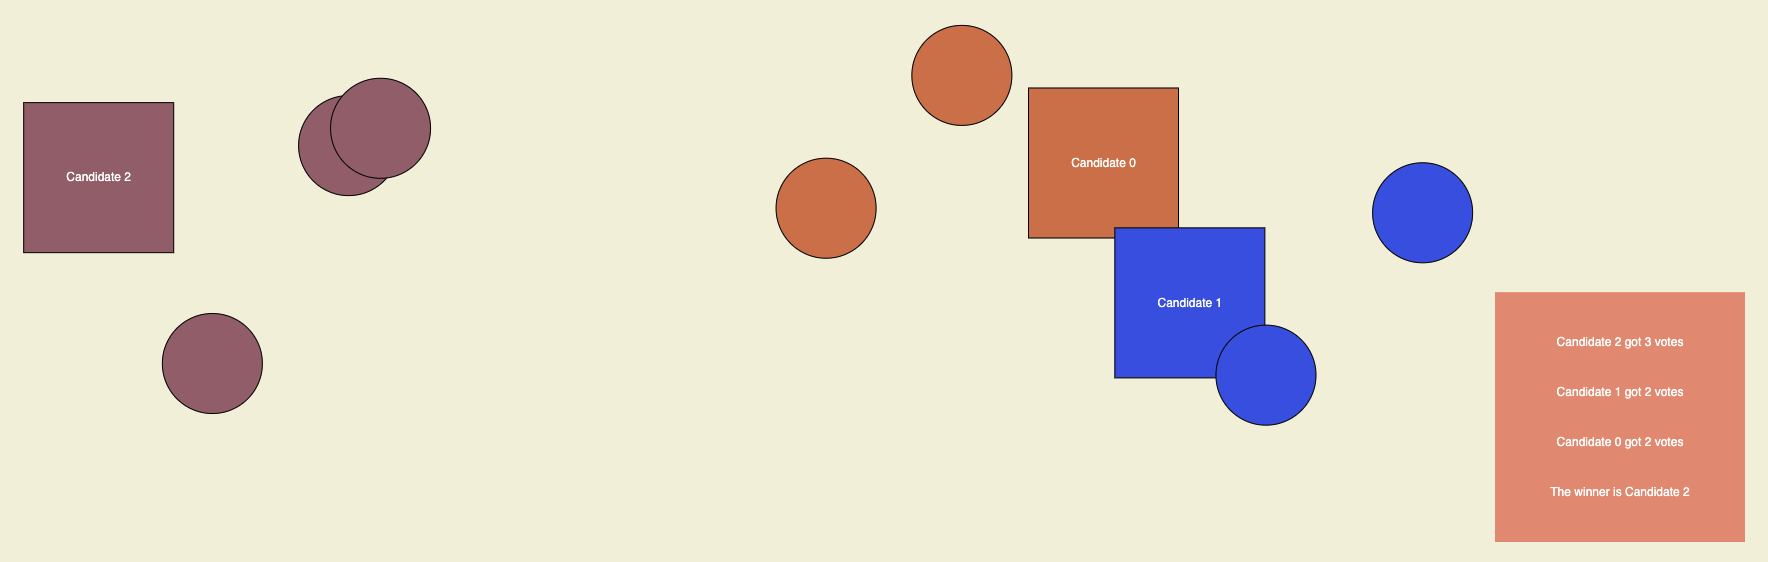
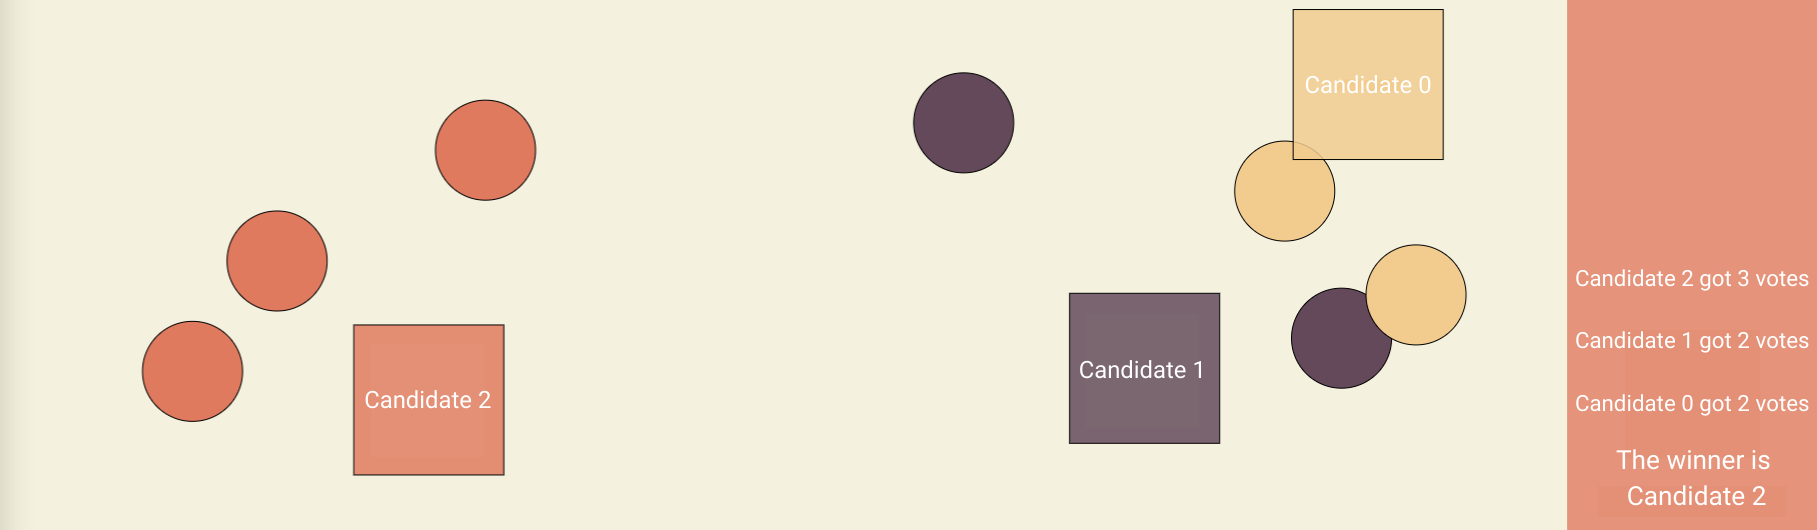
Finalize fptp

diff --git a/analysis.html b/analysis.html
@@ -16,24 +16,53 @@
     <h1>What are the voting systems we are studying?</h1>
     <main>
         <div id="content">
-            <div id="intro-c">
-                <p class="info-p">We analyzed four voting systems and their benefits in day-to-day use. 
+            <div id="intro-c" class="info-c">
+                <p class="info-p">
+                    We analyzed four voting systems and their benefits in day-to-day use. 
                     You can test them yourself in our <a href="sim.html">voting simulator</a>. 
                     Definitions of common voting terms and more information about the systems can be found in the <a href="resources.html">resources</a> page.
                 </p>
+                <div id="overviews">
+                    <div>
+                        <h3>Plurality</h3>
+                        <p class="info-p">
+                            This method is the best for any situation involving only two candidates. 
+                            All other systems eventually use Plurality in two candidate elections.
+                        </p>
+                    </div>
+                    <div>
+                        <h3>Ranked</h3>
+                        <p class="info-p">
+                            Lorem ipsum dolor sit amet, consectetur adipiscing elit, sed do eiusmod tempor incididunt ut labore et dolore magna aliqua.
+                        </p>
+                    </div>
+                    <div>
+                        <h3>Approval</h3>
+                        <p class="info-p">
+                            This system is best for situations where people do not have enough information to choose or rank an option, or if the options could result in the exclusion 
+                            of some group members. 
+                        </p>
+                    </div>
+                    <div>
+                        <h3>Score</h3>
+                        <p class="info-p">
+                            Lorem ipsum dolor sit amet, consectetur adipiscing elit, sed do eiusmod tempor incididunt ut labore et dolore magna aliqua. 
+                        </p>
+                    </div>
+                </div>
             </div>
-            <h3 class="transition">The first system is</h3>
             <div id="fptp" class="info-c">
                 <div class="row">
                     <h2>Plurality</h2>
-                    <p class="info-p">Plurality voting, commonly known as First Past the Post, is the most common voting system. 
+                    <p class="info-p">
+                        Plurality voting, commonly known as First Past the Post, is the most common voting system. 
                         It is used everywhere in the world, in all sorts of situations. 
                         In the United States, people are pushing for Plurality to replace the Electoral College system (The National Popular Vote Interstate Compact).
                     </p>
                 </div>
                 <div class="row">
                     <h2>How to Count</h2>
-                    <p class="info-p">Voters vote for one (1) candidate each, and the candidate with the most votes wins.</p>
+                    <p class="info-p">Voters vote for one candidate each, and the candidate with the most votes wins.</p>
                 </div>
                 <table>
                     <tr>
@@ -42,7 +71,7 @@
                     </tr>
                     <tr>
                         <td>Requires only one choice</td>
-                        <td>Forces voters to make one decision</td>
+                        <td>Trends toward two main parties</td>
                     </tr>
                     <tr>
                         <td>Always picks the candidate with the most overall votes</td>
@@ -55,19 +84,20 @@
                 </table>
                 <div class="analysis-s">
                     <h2>Conclusion</h2>
-                    <p class="info-p">This method is the best for any situation involving only two candidates. 
+                    <p class="info-p">
+                        This method is the best for any situation involving only two candidates. 
                         All other systems eventually use Plurality in two candidate elections.
                     </p>
                 </div>
-                <div class="sim-s">
-                    <p class="info-p">
-                        The winning candidate is generally the one nearest to the biggest cluster of voters, regardless of its proximity to all of the voters overall. 
-                        Below, the majority of voters are on the right side, yet <span style="color: #9b6873;">Candidate 2</span>, which is isolated in the left, is the winner. 
-                        This is because both <span style="color: #d07b50;">Candidate 0</span> and <span style="color: #4058e3;">Candidate 1</span> are on the same side. 
-                        This causes the votes to be split among the two, allowing <span style="color: #9b6873;">Candidate 2</span> to win.
-                    </p>
-                    <img class="sim-img" src="images/sim/fptp1.png">
-                </div>
+                <figure class="sim-s">
+                    <figcaption class="info-p">
+                        The winning candidate in Plurality is generally the one nearest to the biggest cluster of voters, even if the cluster makes up a small percentage of all of 
+                        the voters. Below, the majority of voters are on the right side, but the largest cluster of voters is near <span style="color: #64495A;">Candidate 2</span>,
+                        which is isolated on the left. The votes on the right side are split evenly by <span style="color: #F2CC8F;">Candidate 0</span> and 
+                        <span style="color: #E07A5F;">Candidate 1</span>, removing the chance of either of them winning.
+                    </figcaption>
+                    <img src="images/sim/fptp1.png">
+                </figure>
             </div>
         </div>
         <img id="ballot" src="images/ballots/fptp.png"></div>

diff --git a/css/main.css b/css/main.css
@@ -46,7 +46,7 @@ h1 {
     margin-bottom: 4px;
 }
 
-h2, .transition  {
+h2  {
     color: var(--main);
     font-family: "Quicksand", monospace;
     font-weight: 500;
@@ -144,24 +144,23 @@ small {
 
 main a {color: var(--inherit);}
 
-#intro-c {
-    margin: 10px 50px 10px 25vw;
-    max-width: 50vw;
-}
-
-.transition {margin: 40px 50px 0 25vw;}
-
 .info-c {
     display: flex;
     flex-direction: column;
     align-items: flex-start;
     flex-wrap: wrap;
-    margin: 0 50px 10px 25vw;
+    margin: 25px 50px 10px 25vw;
     max-width: 50vw;
     -webkit-hyphens: auto;
     -moz-hyphens: auto;
     -ms-hyphens: auto;
     hyphens: auto;
+    border-bottom: var(--shade) solid 5px;
+}
+
+#intro-c {
+    margin-top: 10px;
+    padding: 0;
 }
 
 .row {margin-bottom: 20px;}
@@ -173,21 +172,32 @@ main a {color: var(--inherit);}
     margin-bottom: 10px;
 }
 
-.column {
-    display: flex;
-    flex-direction: column;
-    max-width: 30vw;
-    margin-right: 30px;
+.info-p {
+    margin-top: 10px;
+    color: var(--shade);
 }
 
-.info-p {margin-top: 10px;}
+#overviews {
+    display: grid;
+    grid-template-columns: repeat(2, auto);
+    grid-template-rows: repeat(2, auto);
+    grid-gap: 30px;
+    width: 80%;
+    margin: 10px auto;
+}
 
-.info-p, table {color: var(--shade);}
+#overviews h3 {
+    color: var(--main);
+    font-weight: 500;
+    margin: 0;
+    text-align: center;
+}
 
 table {
     border-collapse: collapse;
     width: 80%;
     margin: auto;
+    color: var(--shade);
 }
 
 th, td {
@@ -208,13 +218,17 @@ tr:nth-child(even) {background-color: #DDD;}
 
 .analysis-s > * {margin: 10px 10px 0px;}
 
-.sim-s {margin-top: 10px;}
+.sim-s {margin: 20px 0 0;}
 
-.sim-s > * {margin-bottom: 0px;}
+.sim-s > * {margin-bottom: 10px;}
 
-.sim-img {
-   width: 50vw;
-   height: auto; 
+.sim-s img {
+   width: 80%;
+   height: auto;
+   -moz-box-shadow: 0px 0px 30px 5px var(--shade);
+   -webkit-box-shadow: 0px 0px 30px 5px var(--shade);
+   box-shadow: 0px 0px 30px 5px var(--shade);
+   margin: 20px 10%;
 }
 
 #ballot {

diff --git a/js/script.js b/js/script.js
@@ -42,7 +42,7 @@ let sections = document.getElementsByClassName("info-c");
 let cards = document.getElementsByClassName("card");
 
 function createCards() {
-    let cardtitles = ["Plurality Voting", "Ranked Voting", "Approval Voting", "Score Voting"];
+    let cardtitles = ["Overview", "Plurality Voting", "Ranked Voting", "Approval Voting", "Score Voting"];
 
     for (i = 0; i < cardtitles.length; i++) {
         let card = document.createElement("div");
@@ -56,7 +56,10 @@ function createCards() {
         card.addEventListener("click", () => {
             for (i = 0; i < cards.length; i++) {cards[i].className = "card";}
             card.classList.toggle("card-active");
-            window.location.href = `#${sections[card.id].id}`;
+            let anchor = document.getElementById(sections[card.id].id);
+            for (i = 0; i < sections.length; i++) {sections[i].style.paddingTop = "initial";}
+            anchor.style.paddingTop = "35px";
+            window.location.href = `#${anchor.id}`;
         });
     }
 }
@@ -75,7 +78,7 @@ if (file.includes("analysis")) {
         for (i = 0; i < cards.length; i++) {cards[i].className = "card";}
         cards[index].classList.toggle("card-active");
 
-        imglist = ["fptp", "ranked", "approval", "score"];
+        imglist = ["fptp", "fptp", "ranked", "approval", "score"];
         document.getElementById("ballot").src = `images/ballots/${imglist[index]}.png`;
     }   
 }

diff --git a/js/sim.js b/js/sim.js
@@ -48,10 +48,10 @@ function draw() {
     let vval = vslider.value();
     textSize(20);
     fill("#E07A5F");
-    text("Candidates", width / 2 - 260, 10);
-    text("Voters", width / 2 - 240, 40);
-    text(cval, width / 2 + 415, 10);
-    text(vval, width / 2 + 415, 40);
+    text("Candidates", width / 2 - 260, 20);
+    text("Voters", width / 2 - 240, 50);
+    text(cval, width / 2 + 415, 20);
+    text(vval, width / 2 + 415, 50);
     textSize(12);
 
 	if (cval > cnums) {
